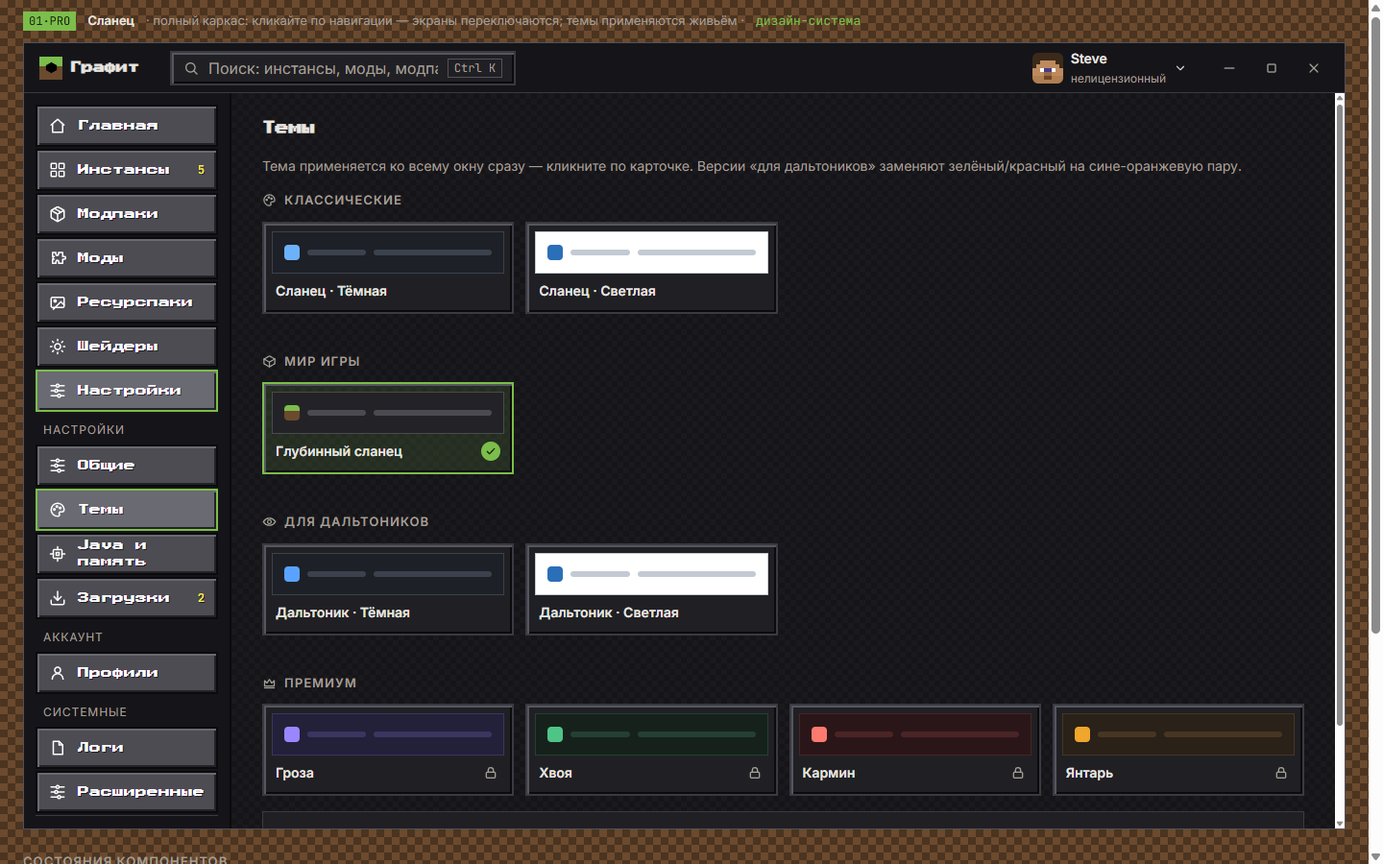
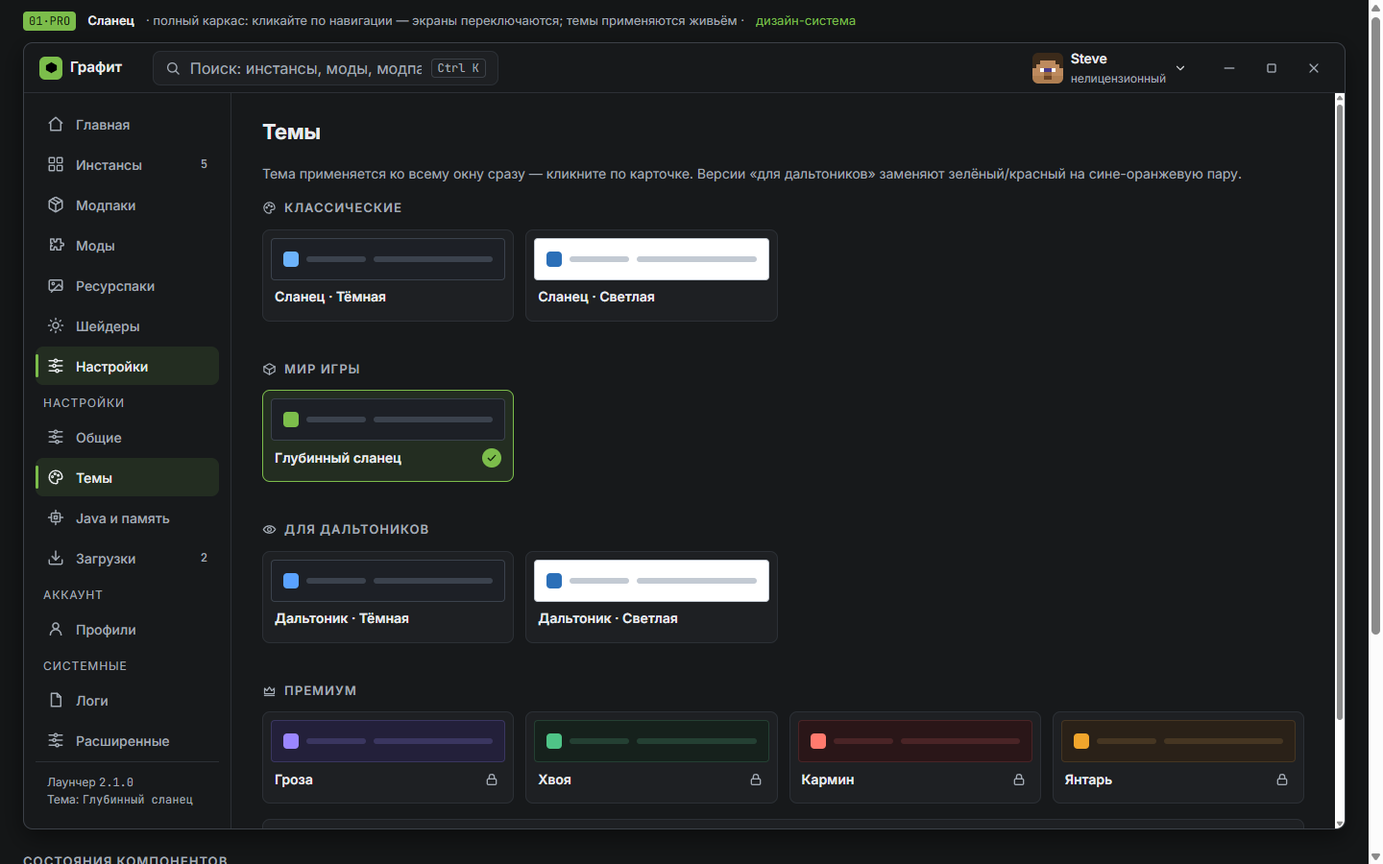
UI: откат структурных экспериментов MC-темы по решению владельца — интерфейс во всех темах остаётся «Сланцем»; «Глубинный сланец» = палитра (графит + травяной акцент), страница Тем как в CurseForge сохранена; темы запоминаются, есть ?theme=

diff --git a/ui-explorations/slate-pro.html b/ui-explorations/slate-pro.html
@@ -15,7 +15,7 @@
 -->
 <link rel="preconnect" href="https://fonts.googleapis.com">
 <link rel="preconnect" href="https://fonts.gstatic.com" crossorigin>
-<link href="https://fonts.googleapis.com/css2?family=Inter:wght@400;500;600;700&family=JetBrains+Mono:wght@400;500;600&family=Press+Start+2P&display=swap" rel="stylesheet">
+<link href="https://fonts.googleapis.com/css2?family=Inter:wght@400;500;600;700&family=JetBrains+Mono:wght@400;500;600&display=swap" rel="stylesheet">
 <style>
 /* ── база: Сланец · Тёмная (токены из MASTER.md) ────────────────── */
 :root{
@@ -37,23 +37,15 @@
   --pz-hvoya-bg:#16211c; --pz-hvoya-line:#244033; --pz-hvoya-accent:#4fc487;
   --pz-karmin-bg:#2a1618; --pz-karmin-line:#4a2426; --pz-karmin-accent:#ff7a6e;
   --pz-yantar-bg:#2a2118; --pz-yantar-line:#463622; --pz-yantar-accent:#f0a52c;
-  --pv-mc-bg:#232327; --pv-mc-line:#4a4a50; --pv-mc-accent:#7cbd4b;
+  --pv-mc-bg:#1d2026; --pv-mc-line:#3b424d; --pv-mc-accent:#7cbd4b;
 }
-/* ── тема: Глубинный сланец (мир Minecraft) ─────────────────────── */
+/* ── тема: Глубинный сланец — тёмная палитра с травяным акцентом ── */
 :root[data-theme="mc"]{
-  --bg:#151519; --surface:#202024; --surface-2:#2a2a30;
-  --text:#e8e6e0; --text-muted:#a29f96;
-  --border:#3a3a40; --border-strong:#52525a;
-  --accent:#7cbd4b; --on-accent:#12230b; --accent-soft:rgba(124,189,75,.14);
-  --danger:#e0705f; --on-danger:#2a0f0a; --ok:#7cbd4b;
-  --font-display:'Press Start 2P',monospace;
-  --r-s:0px; --r-m:0px; --r-l:0px;
-  --t-fast:80ms; --t-slow:120ms; --ease:steps(2,end);
-  --shadow-1:none; --shadow-2:none;
-  --mc-hi:#565660; --mc-lo:#0b0b0d; --mc-dirt:#6b4a2e; --mc-dirt-lo:#3a2818;
-  --mc-slot:#26262b; --mc-slot-hi:#0c0c0e; --mc-slot-lo:#4e4e56;
-  --mc-btn:#4c4c52; --mc-btn-hi:#6a6a72; --mc-btn-lo:#232327;
-  --mc-tip-bg:#100010; --mc-tip-border:#6b3fa8; --mc-splash:#ffef4a; --mc-btn-text:#ffffff; --mc-select:#ffffff;
+  --bg:#17191b; --surface:#1e2023; --surface-2:#26292d;
+  --text:#e9ebee; --text-muted:#a3abb5;
+  --border:#2c3036; --border-strong:#3c4148;
+  --accent:#7cbd4b; --on-accent:#12230b; --accent-soft:rgba(124,189,75,.12);
+  --danger:#f28b82; --on-danger:#1a0f0d; --ok:#7cbd4b;
 }
 :root[data-theme="light"]{
   --bg:#f4f5f7; --surface:#ffffff; --surface-2:#e9edf2;
@@ -387,195 +379,6 @@ input[type=range].ram{width:100%; accent-color:var(--accent); height:40px}
 .error .code{font-family:var(--font-mono); font-size:12px; color:var(--text-muted); background:var(--bg); border:1px solid var(--border); border-radius:var(--r-s); padding:0 var(--s-2); line-height:22px; display:inline-block}
 .error .btn-ghost{height:40px; align-self:flex-start}
 
-/* ── Глубинный сланец: компоненты ───────────────────────────────── */
-[data-theme="mc"] body{
-  background:var(--mc-dirt);
-  background-image:repeating-conic-gradient(color-mix(in srgb, black 30%, transparent) 0 25%, transparent 0 50%);
-  background-size:16px 16px;
-}
-/* инвентарные слоты: обратный бевель */
-[data-theme="mc"] .row .tile,
-[data-theme="mc"] .mod .tile,
-[data-theme="mc"] .pack .tile,
-[data-theme="mc"] .modcard .tile,
-[data-theme="mc"] .mpcard .tile,
-[data-theme="mc"] .dl-row .tile,
-[data-theme="mc"] .hero .tile{
-  background:var(--mc-slot); color:var(--text);
-  box-shadow:inset 3px 3px 0 var(--mc-slot-hi), inset -3px -3px 0 var(--mc-slot-lo);
-}
-/* каменные кнопки */
-[data-theme="mc"] .btn-ghost,
-[data-theme="mc"] .install,
-[data-theme="mc"] .pack .install,
-[data-theme="mc"] .modcard .install{
-  background:var(--mc-btn); color:var(--mc-btn-text);
-  border:2px solid var(--mc-lo);
-  box-shadow:inset 2px 2px 0 var(--mc-btn-hi), inset -2px -2px 0 var(--mc-btn-lo);
-  text-shadow:1px 1px 0 color-mix(in srgb, black 60%, transparent);
-}
-[data-theme="mc"] .btn-ghost:hover,
-[data-theme="mc"] .install:hover,
-[data-theme="mc"] .pack .install:hover,
-[data-theme="mc"] .modcard .install:hover{
-  background:var(--mc-btn-hi); border-color:var(--accent); color:var(--mc-btn-text);
-}
-/* бейдж обновления — предметный тултип */
-[data-theme="mc"] .badge{
-  background:color-mix(in srgb, var(--mc-tip-bg) 88%, transparent);
-  border:2px solid var(--mc-tip-border);
-  color:var(--text); border-radius:0;
-}
-/* сплэш-текст */
-.splash{display:none}
-[data-theme="mc"] .splash{
-  display:inline-block; margin-left:auto; margin-right:var(--s-3);
-  font-family:var(--font-display); font-size:12px; line-height:1.6;
-  color:var(--mc-splash); transform:rotate(-3deg);
-  text-shadow:2px 2px 0 color-mix(in srgb, black 55%, transparent);
-  animation:splash .9s ease-in-out infinite alternate;
-}
-[data-theme="mc"] .banner .more{margin-left:0}
-@keyframes splash{from{transform:rotate(-3deg) scale(1)}to{transform:rotate(-3deg) scale(1.06)}}
-/* главная в теме: меню + инвентарь вместо стандартной раскладки */
-.mc-home{display:none}
-[data-theme="mc"] .mc-home{display:flex; flex-direction:column; gap:var(--s-4)}
-[data-theme="mc"] #scr-home .banner,
-[data-theme="mc"] #scr-home .sec-head,
-[data-theme="mc"] #scr-home .rows,
-[data-theme="mc"] #scr-home .packs{display:none}
-[data-theme="mc"] .mc-title-row{display:flex; align-items:flex-end; gap:var(--s-4)}
-[data-theme="mc"] .mc-logo{
-  font-family:var(--font-display); font-size:22px; color:var(--text); letter-spacing:2px;
-  text-shadow:3px 3px 0 color-mix(in srgb, black 60%, transparent);
-}
-[data-theme="mc"] .mc-title-row .splash{margin:0 0 14px}
-[data-theme="mc"] .mc-menu{display:flex; flex-direction:column; gap:var(--s-2); max-width:560px}
-[data-theme="mc"] .mc-menu-row{display:grid; grid-template-columns:1fr 1fr; gap:var(--s-2)}
-[data-theme="mc"] .mc-btn{
-  height:48px; display:flex; align-items:center; justify-content:center; gap:var(--s-2);
-  background:var(--mc-btn); color:var(--mc-btn-text);
-  border:2px solid var(--mc-lo);
-  box-shadow:inset 2px 2px 0 var(--mc-btn-hi), inset -2px -2px 0 var(--mc-btn-lo);
-  font-family:var(--font-display); font-size:12px; line-height:1.5;
-  text-shadow:1px 1px 0 color-mix(in srgb, black 60%, transparent);
-}
-[data-theme="mc"] .mc-btn:hover{background:var(--mc-btn-hi); border-color:var(--accent)}
-[data-theme="mc"] .mc-btn svg{width:16px;height:16px}
-[data-theme="mc"] .mc-btn-play{
-  height:56px; background:var(--accent); color:var(--on-accent); font-size:14px;
-  box-shadow:inset 2px 2px 0 color-mix(in srgb, var(--accent), white 35%), inset -2px -2px 0 var(--mc-dirt-lo);
-}
-[data-theme="mc"] .mc-btn-play:hover{background:color-mix(in srgb, var(--accent) 88%, white)}
-[data-theme="mc"] .mc-inv{
-  background:var(--surface); border:2px solid var(--border-strong);
-  box-shadow:inset 2px 2px 0 var(--mc-hi), inset -2px -2px 0 var(--mc-lo);
-  padding:var(--s-3); max-width:860px;
-}
-[data-theme="mc"] .mc-inv-head{font-family:var(--font-display); font-size:12px; line-height:1.8; color:var(--text-muted); margin-bottom:var(--s-2)}
-[data-theme="mc"] .mc-slots{display:grid; grid-template-columns:repeat(auto-fill,minmax(128px,1fr)); gap:var(--s-2)}
-[data-theme="mc"] .mc-slot{
-  display:flex; flex-direction:column; align-items:center; gap:var(--s-1); padding:var(--s-2);
-  background:var(--bg); border:2px solid var(--mc-lo); text-align:center;
-}
-[data-theme="mc"] .mc-slot:hover{border-color:var(--accent)}
-[data-theme="mc"] .mc-slot-ic{
-  width:44px; height:44px; display:grid; place-items:center; color:var(--accent);
-  background:var(--mc-slot);
-  box-shadow:inset 2px 2px 0 var(--mc-slot-hi), inset -2px -2px 0 var(--mc-slot-lo);
-}
-[data-theme="mc"] .mc-slot-ic svg{width:22px;height:22px;fill:none;stroke:currentColor;stroke-width:2;stroke-linecap:round;stroke-linejoin:round}
-[data-theme="mc"] .mc-slot-name{font-size:13px; font-weight:600; line-height:1.3}
-[data-theme="mc"] .mc-slot-sub{font-family:var(--font-mono); font-size:12px; color:var(--text-muted); line-height:1.3}
-[data-theme="mc"] .mc-slot .install{height:32px; width:100%; justify-content:center; padding:0; font-size:12px}
-/* сайдбар — стопка каменных кнопок */
-[data-theme="mc"] .side{background:transparent; border-right:2px solid var(--mc-lo)}
-[data-theme="mc"] .nav-item{
-  justify-content:flex-start; height:44px;
-  background:var(--mc-btn); color:var(--mc-btn-text);
-  border:2px solid var(--mc-lo); border-radius:0;
-  box-shadow:inset 2px 2px 0 var(--mc-btn-hi), inset -2px -2px 0 var(--mc-btn-lo);
-  font-family:var(--font-display); font-size:12px; line-height:1.4;
-  text-shadow:1px 1px 0 color-mix(in srgb, black 60%, transparent);
-}
-[data-theme="mc"] .nav-item:hover{background:var(--mc-btn-hi); color:var(--mc-btn-text)}
-[data-theme="mc"] .nav-item.is-active{background:var(--mc-btn-hi); border-color:var(--accent); color:var(--mc-btn-text)}
-[data-theme="mc"] .nav-item.is-active::before{display:none}
-[data-theme="mc"] .nav-item .count{color:var(--mc-splash); font-size:12px}
-/* контент: шахматный камень */
-[data-theme="mc"] .content{
-  background-image:repeating-conic-gradient(color-mix(in srgb, var(--surface) 40%, transparent) 0 25%, transparent 0 50%);
-  background-size:12px 12px;
-}
-/* хотбар быстрого запуска */
-.hotbar{display:none}
-[data-theme="mc"] .hotbar{
-  position:sticky; bottom:0; z-index:5;
-  display:flex; gap:var(--s-2); align-items:center;
-  border:2px solid var(--mc-lo); background:color-mix(in srgb, var(--mc-slot) 80%, transparent);
-  box-shadow:inset 2px 2px 0 var(--mc-slot-hi), inset -2px -2px 0 var(--mc-slot-lo);
-  padding:var(--s-2); margin-top:var(--s-2);
-}
-[data-theme="mc"] .hslot{
-  position:relative; width:56px; height:56px; display:grid; place-items:center;
-  background:var(--mc-slot); border:2px solid var(--mc-lo); color:var(--text-muted);
-  box-shadow:inset 2px 2px 0 var(--mc-slot-hi), inset -2px -2px 0 var(--mc-slot-lo);
-}
-[data-theme="mc"] .hslot:hover{color:var(--text)}
-[data-theme="mc"] .hslot.is-selected{border:3px solid var(--mc-select); color:var(--text)}
-[data-theme="mc"] .hslot .hkey{
-  position:absolute; top:2px; left:4px;
-  font-family:var(--font-mono); font-size:12px; color:var(--text-muted);
-}
-[data-theme="mc"] .hslot svg{width:24px;height:24px;fill:none;stroke:currentColor;stroke-width:2;stroke-linecap:round;stroke-linejoin:round}
-[data-theme="mc"] .hslot.is-selected svg{fill:currentColor;stroke:none}
-[data-theme="mc"] .hslot.is-selected svg{color:var(--accent)}
-[data-theme="mc"] .row,
-[data-theme="mc"] .mod,
-[data-theme="mc"] .pack,
-[data-theme="mc"] .modcard,
-[data-theme="mc"] .mpcard,
-[data-theme="mc"] .stat,
-[data-theme="mc"] .panel,
-[data-theme="mc"] .dl-row,
-[data-theme="mc"] .profile-card,
-[data-theme="mc"] .tcard,
-[data-theme="mc"] .logbox,
-[data-theme="mc"] .hero,
-[data-theme="mc"] .search{
-  border-radius:0; border-width:2px;
-  box-shadow:inset 2px 2px 0 var(--mc-hi), inset -2px -2px 0 var(--mc-lo);
-}
-[data-theme="mc"] .btn,
-[data-theme="mc"] .play,
-[data-theme="mc"] .install,
-[data-theme="mc"] .pack .install,
-[data-theme="mc"] .modcard .install{
-  border-radius:0; border:2px solid var(--border-strong);
-}
-[data-theme="mc"] .btn-primary{
-  box-shadow:inset 2px 2px 0 color-mix(in srgb, var(--accent), white 35%), inset -2px -2px 0 var(--mc-dirt-lo);
-  font-family:var(--font-display); font-size:12px; letter-spacing:0; line-height:1.6;
-}
-[data-theme="mc"] .brand{font-family:var(--font-display); font-size:12px; line-height:1.6}
-[data-theme="mc"] .brand .mark{
-  border-radius:0;
-  background:linear-gradient(180deg, var(--accent) 0 40%, var(--mc-dirt) 40% 100%);
-}
-[data-theme="mc"] .hero .led{border-radius:0}
-[data-theme="mc"] .progress{border-radius:0; border:2px solid var(--border-strong); background:var(--bg)}
-[data-theme="mc"] .progress i{
-  background:repeating-linear-gradient(90deg, var(--accent) 0 8px, color-mix(in srgb, var(--accent), black 30%) 8px 10px);
-}
-[data-theme="mc"] .badge{border-radius:0; font-family:var(--font-mono)}
-[data-theme="mc"] .tab.is-active{border-bottom-width:4px}
-[data-theme="mc"] h1.pg{font-family:var(--font-display); font-size:14px; line-height:1.8}
-[data-theme="mc"] .sec-head h2{font-family:var(--font-display); font-size:12px; line-height:1.8; letter-spacing:0}
-[data-theme="mc"] .hero h1{font-family:var(--font-display); font-size:16px; line-height:1.6}
-[data-theme="mc"] .crumbs button,
-[data-theme="mc"] .more-link a,
-[data-theme="mc"] a{font-family:var(--font-mono)}
-
 @media (prefers-reduced-motion: reduce){
   *{transition:none !important; animation:none !important}
   .skel .line{animation:none}
@@ -695,41 +498,6 @@ input[type=range].ram{width:100%; accent-color:var(--accent); height:40px}
 
         <!-- ГЛАВНАЯ -->
         <section class="screen on" id="scr-home" aria-label="Главная">
-          <div class="mc-home">
-            <div class="mc-title-row">
-              <span class="mc-logo">ГРАФИТ</span>
-              <span class="splash" aria-hidden="true">187 модов — не предел!</span>
-            </div>
-            <div class="mc-menu">
-              <button class="mc-btn mc-btn-play" data-nav="instance"><svg aria-hidden="true"><use href="#i-play"/></svg>Играть · Fabric + Sodium</button>
-              <div class="mc-menu-row">
-                <button class="mc-btn" data-nav="instances">Инстансы · 5</button>
-                <button class="mc-btn" data-nav="modpacks">Модпаки</button>
-              </div>
-              <div class="mc-menu-row">
-                <button class="mc-btn" data-nav="mods">Каталог модов</button>
-                <button class="mc-btn" data-nav="downloads">Загрузки · 2</button>
-              </div>
-            </div>
-            <div class="mc-inv">
-              <div class="mc-inv-head">Инстансы</div>
-              <div class="mc-slots">
-                <button class="mc-slot" data-nav="instance"><span class="mc-slot-ic"><svg aria-hidden="true"><use href="#i-cube"/></svg></span><span class="mc-slot-name">Ванилла 26.3</span><span class="mc-slot-sub">без загрузчика · 2 ч назад</span></button>
-                <button class="mc-slot" data-nav="instance"><span class="mc-slot-ic"><svg aria-hidden="true"><use href="#i-zap"/></svg></span><span class="mc-slot-name">Fabric + Sodium</span><span class="mc-slot-sub">14 модов · вчера</span></button>
-                <button class="mc-slot" data-nav="instance"><span class="mc-slot-ic"><svg aria-hidden="true"><use href="#i-package"/></svg></span><span class="mc-slot-name">NeoForge: Create</span><span class="mc-slot-sub">38 модов · 3 дня назад</span></button>
-                <button class="mc-slot" data-nav="instance"><span class="mc-slot-ic"><svg aria-hidden="true"><use href="#i-puzzle"/></svg></span><span class="mc-slot-name">Forge 1.20.1: РЛКрафт</span><span class="mc-slot-sub">187 модов · неделю назад</span></button>
-                <button class="mc-slot" data-nav="instance"><span class="mc-slot-ic"><svg aria-hidden="true"><use href="#i-shader"/></svg></span><span class="mc-slot-name">Креатив-песочница</span><span class="mc-slot-sub">шейдеры · месяц назад</span></button>
-              </div>
-            </div>
-            <div class="mc-inv">
-              <div class="mc-inv-head">Популярные модпаки</div>
-              <div class="mc-slots">
-                <div class="mc-slot"><span class="mc-slot-ic"><svg aria-hidden="true"><use href="#i-zap"/></svg></span><span class="mc-slot-name">Fabulously Optimized</span><span class="mc-slot-sub">2,1 млн загрузок</span><button class="install">Установить</button></div>
-                <div class="mc-slot"><span class="mc-slot-ic"><svg aria-hidden="true"><use href="#i-cube"/></svg></span><span class="mc-slot-name">Create: Above and Beyond</span><span class="mc-slot-sub">980 тыс. загрузок</span><button class="install">Установить</button></div>
-                <div class="mc-slot"><span class="mc-slot-ic"><svg aria-hidden="true"><use href="#i-shader"/></svg></span><span class="mc-slot-name">Simply Optimized</span><span class="mc-slot-sub">640 тыс. загрузок</span><button class="install">Установить</button></div>
-              </div>
-            </div>
-          </div>
           <div class="banner">
             <svg class="icon" aria-hidden="true"><use href="#i-megaphone"/></svg>
             <span class="txt"><b>Обновление лаунчера 2.1.0</b> — новый браузер модов и очередь загрузок</span>
@@ -788,13 +556,6 @@ input[type=range].ram{width:100%; accent-color:var(--accent); height:40px}
               <span class="info"><span class="name">Simply Optimized</span><br><span class="dl">640 тыс. загрузок</span></span>
               <span class="install"><svg class="icon" aria-hidden="true"><use href="#i-download"/></svg>Установить</span>
             </button>
-          </div>
-          <div class="hotbar" aria-label="Быстрый запуск">
-            <button class="hslot" data-nav="instance" title="Ванилла 26.3"><span class="hkey">1</span><svg class="icon" aria-hidden="true"><use href="#i-cube"/></svg></button>
-            <button class="hslot is-selected" data-nav="instance" title="Fabric + Sodium — Играть"><span class="hkey">2</span><svg class="icon" aria-hidden="true"><use href="#i-play"/></svg></button>
-            <button class="hslot" data-nav="instance" title="NeoForge: Create"><span class="hkey">3</span><svg class="icon" aria-hidden="true"><use href="#i-package"/></svg></button>
-            <button class="hslot" data-nav="mods" title="Каталог модов"><span class="hkey">4</span><svg class="icon" aria-hidden="true"><use href="#i-search"/></svg></button>
-            <button class="hslot" data-nav="downloads" title="Загрузки — 2 в очереди"><span class="hkey">5</span><svg class="icon" aria-hidden="true"><use href="#i-download"/></svg></button>
           </div>
         </section>
 
@@ -1075,8 +836,8 @@ input[type=range].ram{width:100%; accent-color:var(--accent); height:40px}
           <div class="tgroup">
             <h2><svg class="icon" aria-hidden="true"><use href="#i-cube"/></svg>Мир игры</h2>
             <div class="tgrid">
-              <button class="tcard" data-set-theme="mc" title="Каменные панели с бевелями, травяной акцент, пиксельные заголовки и XP-полоса прогресса">
-                <span class="tpv" style="--pv-bg:var(--pv-mc-bg); --pv-line:var(--pv-mc-line); --pv-accent:var(--pv-mc-accent)"><span class="pv-ic" style="background:linear-gradient(180deg, var(--pv-mc-accent) 0 40%, var(--mc-dirt) 40% 100%)"></span><span class="pv-line pv-l1"></span><span class="pv-line pv-l2"></span></span>
+              <button class="tcard" data-set-theme="mc" aria-pressed="false" title="Тот же Сланец, но с травяным акцентом — дань любимой игре">
+                <span class="tpv" style="--pv-bg:var(--pv-mc-bg); --pv-line:var(--pv-mc-line); --pv-accent:var(--pv-mc-accent)"><span class="pv-ic"></span><span class="pv-line pv-l1"></span><span class="pv-line pv-l2"></span></span>
                 <span class="trow"><span class="tname">Глубинный сланец</span><span class="tmark"></span></span>
               </button>
             </div>
@@ -1267,19 +1028,6 @@ input[type=range].ram{width:100%; accent-color:var(--accent); height:40px}
 <script>
   // ── навигация по экранам ─────────────────────────────────────────
   var root = document.documentElement;
-  var themeNames = { '': 'Тёмная', 'light': 'Светлая', 'cb-dark': 'Дальтоник · Тёмная', 'cb-light': 'Дальтоник · Светлая', 'mc': 'Глубинный сланец' };
-  function applyTheme(t){
-    if (t) { root.setAttribute('data-theme', t); } else { root.removeAttribute('data-theme'); }
-    document.querySelectorAll('[data-set-theme]').forEach(function(b){
-      var on = b === document.querySelector('[data-set-theme="' + t + '"]');
-      b.classList.toggle('is-selected', on);
-      b.setAttribute('aria-pressed', on ? 'true' : 'false');
-      var mk = b.querySelector('.tmark');
-      if (mk) { mk.innerHTML = on ? '<span class="chk"><svg aria-hidden="true"><use href="#i-check"/></svg></span>' : ''; }
-    });
-    var lbl = document.getElementById('theme-label');
-    if (lbl) { lbl.textContent = themeNames[t] || 'Тёмная'; }
-  }
   var screens = document.querySelectorAll('.screen');
   var mainNav = document.querySelectorAll('#main-nav .nav-item');
   var setNav = document.querySelectorAll('#settings-nav .nav-item');
@@ -1343,7 +1091,16 @@ input[type=range].ram{width:100%; accent-color:var(--accent); height:40px}
     var th = e.target.closest('[data-set-theme]');
     if (th){
       var t = th.getAttribute('data-set-theme');
-      applyTheme(t);
+      if (t) { root.setAttribute('data-theme', t); } else { root.removeAttribute('data-theme'); }
+      document.querySelectorAll('[data-set-theme]').forEach(function(b){
+        var on = b === th;
+        b.classList.toggle('is-selected', on);
+        b.setAttribute('aria-pressed', on ? 'true' : 'false');
+        var mk = b.querySelector('.tmark');
+        if (mk) { mk.innerHTML = on ? '<span class="chk"><svg aria-hidden="true"><use href="#i-check"/></svg></span>' : ''; }
+      });
+      var names = { '': 'Тёмная', 'light': 'Светлая', 'cb-dark': 'Дальтоник · Тёмная', 'cb-light': 'Дальтоник · Светлая', 'mc': 'Глубинный сланец' };
+      document.getElementById('theme-label').textContent = names[t] || 'Тёмная';
       try { localStorage.setItem('graphite-theme', t); } catch (err) {}
       return;
     }
@@ -1355,14 +1112,26 @@ input[type=range].ram{width:100%; accent-color:var(--accent); height:40px}
   document.getElementById('f-ram').addEventListener('input', function(){
     document.getElementById('ram-val').textContent = this.value + ' ГБ';
   });
-  // тема из ?theme= или сохранённая в localStorage
+  // Тема из ?theme= или сохранённая в localStorage
   (function(){
+    var names = { '': 'Тёмная', 'light': 'Светлая', 'cb-dark': 'Дальтоник · Тёмная', 'cb-light': 'Дальтоник · Светлая', 'mc': 'Глубинный сланец' };
     var param = '';
     try { param = new URLSearchParams(location.search).get('theme') || ''; } catch (err) {}
     var saved = '';
     try { saved = localStorage.getItem('graphite-theme') || ''; } catch (err) {}
     var initial = param || saved;
-    if (initial && themeNames.hasOwnProperty(initial)) { applyTheme(initial); }
+    if (initial && names.hasOwnProperty(initial)) {
+      if (initial) { root.setAttribute('data-theme', initial); } else { root.removeAttribute('data-theme'); }
+      document.querySelectorAll('[data-set-theme]').forEach(function(b){
+        var on = b.getAttribute('data-set-theme') === initial;
+        b.classList.toggle('is-selected', on);
+        b.setAttribute('aria-pressed', on ? 'true' : 'false');
+        var mk = b.querySelector('.tmark');
+        if (mk) { mk.innerHTML = on ? '<span class="chk"><svg aria-hidden="true"><use href="#i-check"/></svg></span>' : ''; }
+      });
+      var lbl = document.getElementById('theme-label');
+      if (lbl) { lbl.textContent = names[initial]; }
+    }
   })();
 </script>
 </body>

diff --git a/ui-explorations/index.html b/ui-explorations/index.html
@@ -61,9 +61,9 @@ footer{margin-top:36px; color:var(--text-muted); font-size:14px; border-top:1px 
     <article class="card">
       <div class="head"><span class="num">01·PRO</span><h2>Сланец — развитие</h2><span class="prod">продукт «Графит Pro»</span></div>
       <a class="shot" href="slate-pro.html"><img src="shots/slate-pro-home.png" alt="Сланец Pro — главная"></a>
-      <p class="idea">Полный интерактивный каркас: клик по навигации переключает экраны (Главная, Инстансы, инстанс с табами и логами, Модпаки, каталог Модов, Настройки со всеми разделами — Темы, Java и память, Загрузки с очередью, Профили, Логи, Расширенные). Пять тем применяются живьём и запоминаются: тёмная, светлая, две сине-оранжевые для дальтоников и «Глубинный сланец» — главный экран превращается в меню Minecraft: пиксельное лого со сплэшем, каменные кнопки, инвентарь инстансов, хотбар.</p>
+      <p class="idea">Полный интерактивный каркас: клик по навигации переключает экраны (Главная, Инстансы, инстанс с табами и логами, Модпаки, каталог Модов, Настройки со всеми разделами — Темы, Java и память, Загрузки с очередью, Профили, Логи, Расширенные). Страница «Темы» — как каталог CurseForge: карточки-превью по группам, галочка на выбранной, замки у премиума. Пять тем меняют только палитру, применяются живьём и запоминаются: тёмная, светлая, две сине-оранжевые для дальтоников и «Глубинный сланец» (дань игре — травяной акцент).</p>
       <p class="disks">variance 2 · motion 2 · density 8 · 5 тем + 11 экранов, контраст проверен по каждой теме</p>
-      <div class="links"><a href="slate-pro.html">макет</a><a href="slate-pro.html?theme=mc">тема Minecraft</a><a href="shots/slate-pro-mc-home.png">скрин</a><a href="shots/slate-pro-mods.png">моды</a><a href="shots/slate-pro-downloads.png">загрузки</a><a href="shots/slate-pro-mc-home.png">тема «Глубинный сланец»</a><a href="shots/slate-pro-themes-light.png">темы · светлая</a><a href="design-systems/slate/MASTER.md">дизайн-система</a></div>
+      <div class="links"><a href="slate-pro.html">макет</a><a href="slate-pro.html?theme=mc">Глубинный сланец</a><a href="shots/slate-pro-mods.png">моды</a><a href="shots/slate-pro-downloads.png">загрузки</a><a href="shots/slate-pro-mc-home.png">тема «Глубинный сланец»</a><a href="shots/slate-pro-themes-light.png">темы · светлая</a><a href="design-systems/slate/MASTER.md">дизайн-система</a></div>
     </article>
 
     <article class="card">
